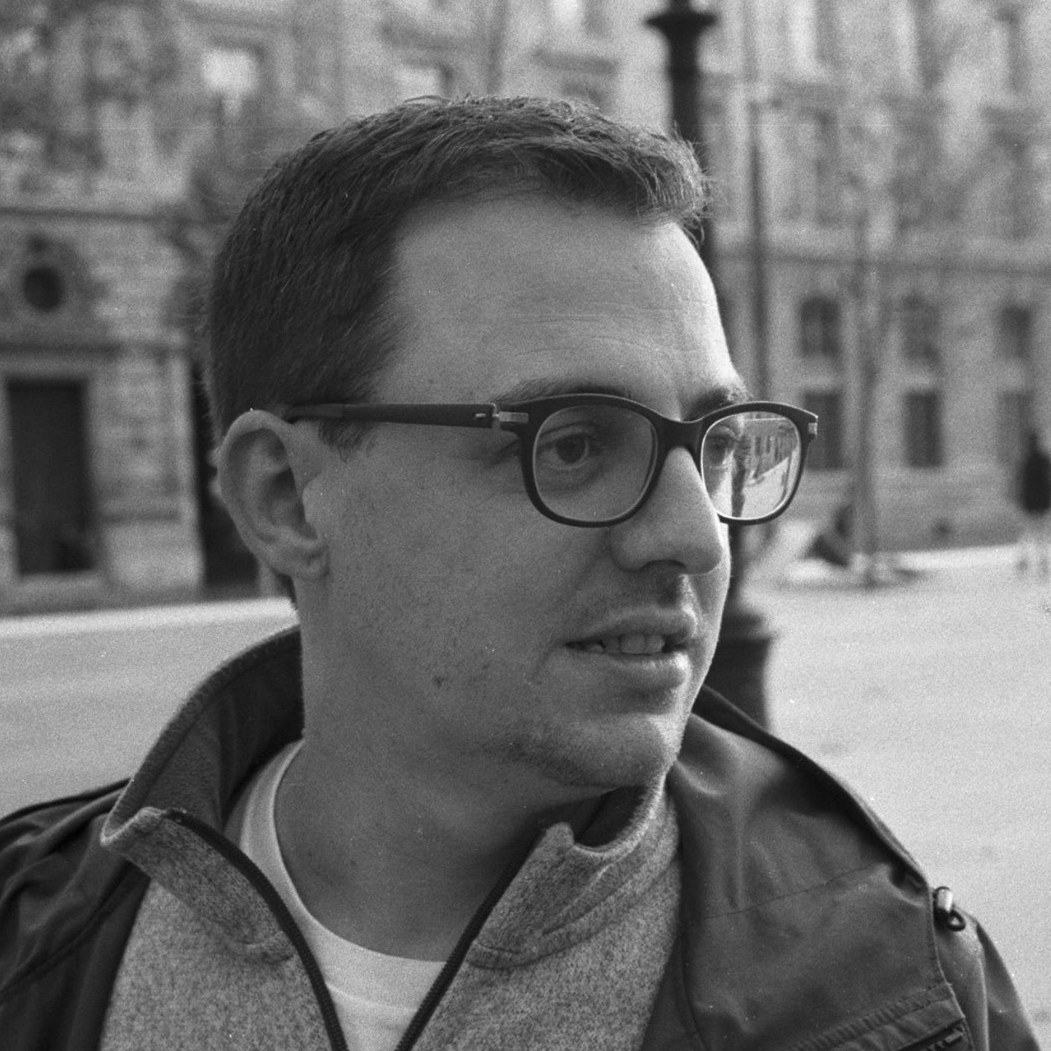
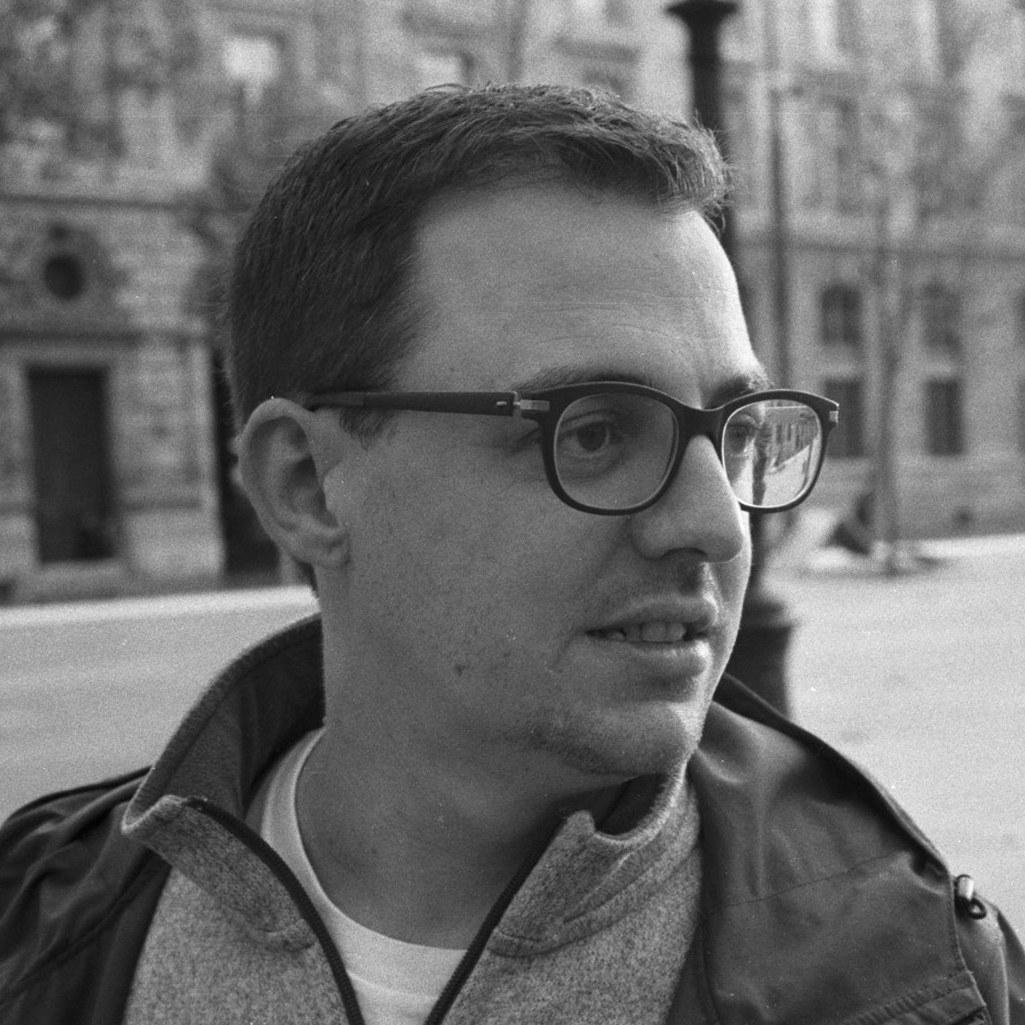
circular headshots

diff --git a/_includes/headshot.html b/_includes/headshot.html
@@ -1,6 +1,6 @@
 <div class="people">
     <div class="headshot">
-        <img class="" src="{{ people.img }}" alt="Image {{ people.name }}" name="{{ people.name }}">
+        <img class="circular" src="{{ people.img }}" alt="Image {{ people.name }}" name="{{ people.name }}">
     </div>
     <div class="people-info">
       <h3>
